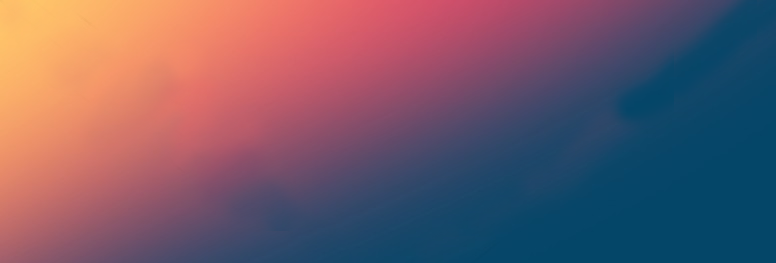
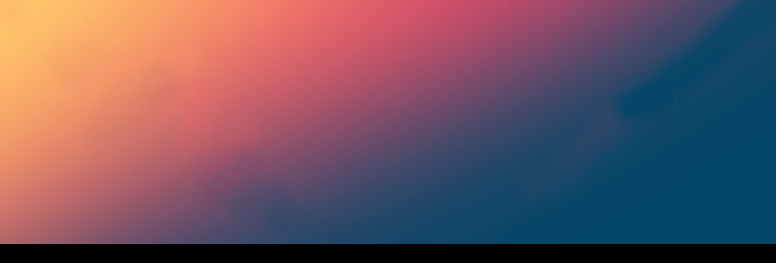
added black border

Changed region(s): [[0.0, 0.9125, 1.0, 1.0]]

diff --git a/src/pages/Home.tsx b/src/pages/Home.tsx
@@ -16,7 +16,8 @@ left:0;
 position:absolute;
 z-index:0;
 width:200%;
-height:25%;
+height:28%;
+border-bottom:
 `;
 
 const Logo = styled.img`
@@ -32,7 +33,7 @@ z-index:1;
 const Home = ({userName}:{userName: string})=>
   <Wrapper>
     <Banner src={banner} />
-    <Logo src={logo} />
+    <a href="http://www.unitedwaynela.org/"> <Logo src={logo} /></a>
   </Wrapper>;
 
 export default Home;
